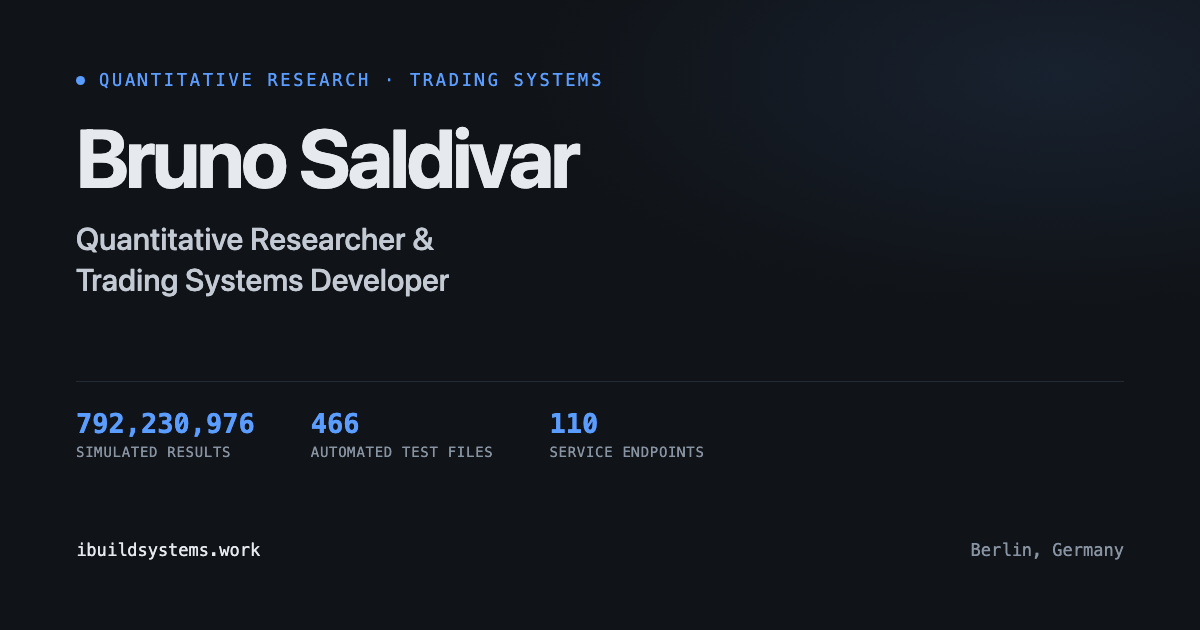
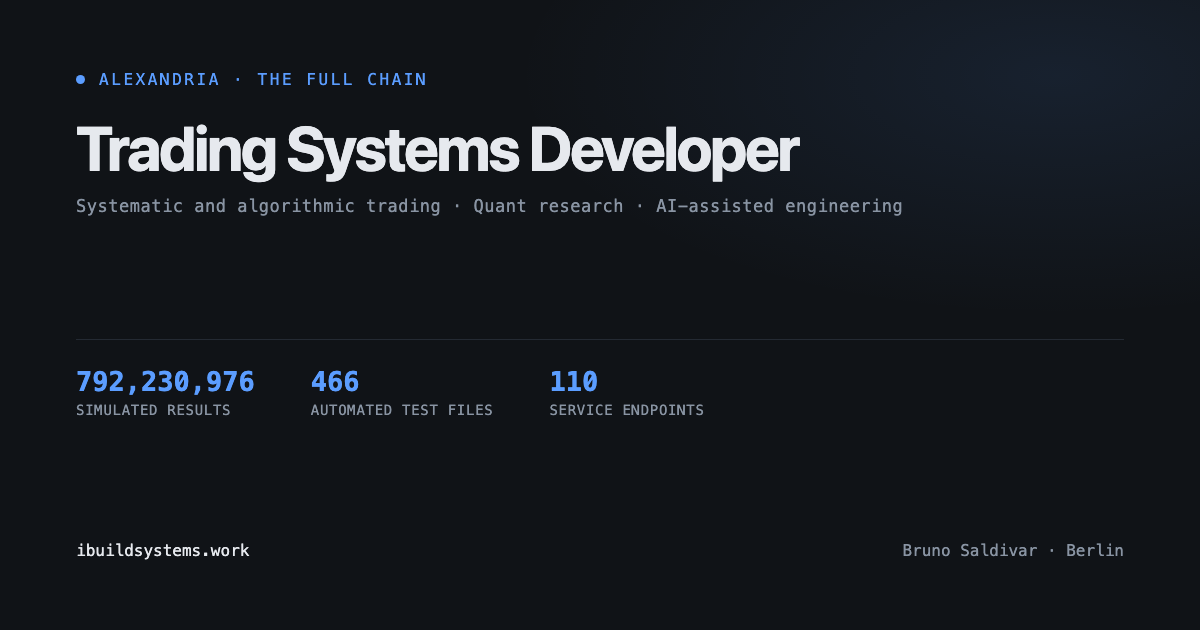
seo: la tarjeta social espeja la jerarquia del sitio
Bru rechazo el nombre en grande. El sitio mismo lidera con el rol y deja el
nombre chico en el pie, asi que la tarjeta hace lo mismo. No afecta al SEO:
el nombre vive en el title y en el JSON-LD, no en la imagen. Telegram 2026-08-01.

diff --git a/og-card.source.html b/og-card.source.html
@@ -3,9 +3,10 @@
 <head>
 <meta charset="utf-8">
 <style>
-  /* Mismos tokens que index.html del sitio: la tarjeta social no inventa marca nueva */
+  /* Espeja la jerarquia del propio sitio: manda el rol, el nombre va chico al pie.
+     Bru rechazo la version con el nombre grande (Telegram 2026-08-01). */
   :root {
-    --bg:#101317; --panel:#171b21; --fg:#e6e9ee; --dim:#8994a3;
+    --bg:#101317; --fg:#e6e9ee; --dim:#8994a3;
     --hair:#242a33; --signal:#5b9dff;
     --sans: system-ui, -apple-system, "Helvetica Neue", Arial, sans-serif;
     --mono: ui-monospace, "SF Mono", Menlo, monospace;
@@ -21,27 +22,30 @@
   .top { display:flex; align-items:center; gap:14px; }
   .dot { width:9px; height:9px; border-radius:50%; background:var(--signal); }
   .kicker {
-    font-family:var(--mono); font-size:17px; color:var(--signal);
+    font-family:var(--mono); font-size:16px; color:var(--signal);
     letter-spacing:.16em; text-transform:uppercase;
   }
-  h1 { font-size:82px; line-height:1.02; letter-spacing:-.035em; font-weight:700; margin:26px 0 18px; }
-  .role { font-size:31px; line-height:1.35; color:#c3cad4; font-weight:500; max-width:24ch; }
+  h1 { font-size:62px; line-height:1.05; letter-spacing:-.035em; font-weight:700; margin:26px 0 16px; }
+  .disciplines {
+    font-family:var(--mono); font-size:17px; color:var(--dim);
+    letter-spacing:.03em;
+  }
   .figs { display:flex; gap:56px; padding-top:26px; border-top:1px solid var(--hair); }
   .fig { font-family:var(--mono); }
   .fig b { display:block; font-size:27px; color:var(--signal); font-variant-numeric:tabular-nums; font-weight:600; }
   .fig span { display:block; font-size:14px; color:var(--dim); letter-spacing:.05em; margin-top:5px; }
   .foot {
     display:flex; justify-content:space-between; align-items:flex-end;
-    font-family:var(--mono); font-size:17px; color:var(--dim);
+    font-family:var(--mono); font-size:16px; color:var(--dim);
   }
   .foot .url { color:var(--fg); }
 </style>
 </head>
 <body>
   <div>
-    <div class="top"><span class="dot"></span><span class="kicker">Quantitative research · Trading systems</span></div>
-    <h1>Bruno Saldivar</h1>
-    <p class="role">Quantitative Researcher &amp; Trading Systems Developer</p>
+    <div class="top"><span class="dot"></span><span class="kicker">Alexandria · the full chain</span></div>
+    <h1>Trading Systems Developer</h1>
+    <p class="disciplines">Systematic and algorithmic trading · Quant research · AI-assisted engineering</p>
   </div>
 
   <div class="figs">
@@ -52,7 +56,7 @@
 
   <div class="foot">
     <span class="url">ibuildsystems.work</span>
-    <span>Berlin, Germany</span>
+    <span>Bruno Saldivar · Berlin</span>
   </div>
 </body>
 </html>
